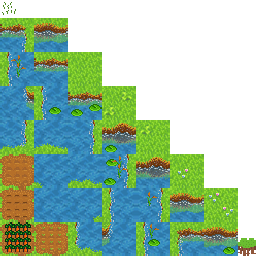
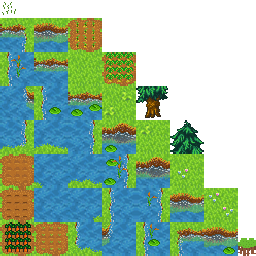
Added beautiful 2 blocks trees. Transparency problem due to turns

Changed region(s): [[0.25, 0.0625, 0.6562, 0.4688], [0.6562, 0.4688, 0.8125, 0.625]]

diff --git a/core/src/com/pi4/mgmtgame/screens/MainGameScreen.java b/core/src/com/pi4/mgmtgame/screens/MainGameScreen.java
@@ -26,6 +26,9 @@ import com.badlogic.gdx.scenes.scene2d.ui.Image;
 import com.badlogic.gdx.math.Vector3;
 import com.pi4.mgmtgame.Popup;
 import com.pi4.mgmtgame.ManagementGame;
+import com.pi4.mgmtgame.blocks.Structure;
+import com.pi4.mgmtgame.blocks.TreeField;
+import com.badlogic.gdx.scenes.scene2d.ui.Skin;
 
 public class MainGameScreen implements Screen	{
 
@@ -43,7 +46,7 @@ public class MainGameScreen implements Screen	{
 	private SpriteBatch batch;
 	private HUD hud;
 	private InputMultiplexer multiplexer;
-	protected Stage stage, stage2;
+	protected Stage stage, selectionSquareStage, decorationStage;
 	private ServerInteraction server;
 	private Button waitingOverlay;
 	private Image selectSquare;
@@ -89,7 +92,8 @@ public class MainGameScreen implements Screen	{
 		camera.update();
 
 		stage = new Stage(viewport, batch);
-		stage2 = new Stage(viewport, batch);
+		selectionSquareStage = new Stage(viewport, batch);
+		decorationStage = new Stage(viewport, batch);
 
 		hud = new HUD(manager, server);
 		server.passHUD(hud);
@@ -103,13 +107,14 @@ public class MainGameScreen implements Screen	{
 		Gdx.input.setInputProcessor(multiplexer);
 		stage.addActor(map);
 		map.updateActors(manager, server);
+		updateDecorations();
 
 		this.selectSquare = new Image(manager.get("select.png", Texture.class));
 		this.selectedSquare = new Image(manager.get("select.png", Texture.class));
 		this.selectedSquare.setColor(0f, 1f, 1f, 1f);
 		this.selectedSquare.setVisible(false);
-		stage2.addActor(selectSquare);
-		stage2.addActor(selectedSquare);
+		selectionSquareStage.addActor(selectSquare);
+		selectionSquareStage.addActor(selectedSquare);
 
 		waitingOverlay = new Button(new TextureRegionDrawable(manager.get("b l a c k.png", Texture.class)));
 		waitingOverlay.setVisible(false);
@@ -164,8 +169,11 @@ public class MainGameScreen implements Screen	{
 			this.selectedSquare.setY(this.selectedSquareY);
 		}
 
-		stage2.act(delta);
-		stage2.draw();
+		selectionSquareStage.act(delta);
+		selectionSquareStage.draw();
+
+		decorationStage.act(delta);
+		decorationStage.draw();
 
 		processCameraMovement();
 
@@ -197,6 +205,21 @@ public class MainGameScreen implements Screen	{
 			translateY += cameraSpeed;
 		}
 		camera.translate(translateX, translateY);
+	}
+
+	private void updateDecorations() {
+		decorationStage.clear();
+		for(int x=0; x<map.getMapWidth(); x++) {
+			for(int y=0; y<map.getMapHeight(); y++) {
+				Structure struct = map.getStructAt(x, y);
+				if (struct != null && struct instanceof TreeField && ((TreeField)struct).hasSeedGrown()) {
+					Image treeTop = new Image(manager.get("blocks/arbre_haut.png", Texture.class));
+					treeTop.setX(x*ManagementGame.TILE_SIZE);
+					treeTop.setY((y+1)*ManagementGame.TILE_SIZE);
+					decorationStage.addActor(treeTop);
+				}
+			}
+		}
 	}
 
 	@Override
@@ -232,6 +255,7 @@ public class MainGameScreen implements Screen	{
 					stage.addActor(serverMap);
 					map.remove();
 					map = serverMap;
+					updateDecorations();
 					hud.update();
 					server.getInternalTurn();
 				}

diff --git a/core/src/com/pi4/mgmtgame/blocks/Field.java b/core/src/com/pi4/mgmtgame/blocks/Field.java
@@ -49,7 +49,7 @@ public class Field extends Structure {
 					Button buttonHarvest = new Button(manager.get("popupIcons/popup.json", Skin.class), "harvest_icon");
 					Button buttonDestroy = new Button(manager.get("popupIcons/popup.json", Skin.class), "bomb_icon");
 					Button buttonRepulsive = new Button(manager.get("popupIcons/popup.json", Skin.class), "closeButton");
-						
+
 					final Popup p = new Popup((getGridX() - 2) * ManagementGame.TILE_SIZE + ManagementGame.TILE_SIZE/2, (getGridY() + 1) * ManagementGame.TILE_SIZE, manager, buttonPlant,
 							buttonHarvest, buttonDestroy, buttonRepulsive);
 					if (!hasSeed()) {
@@ -170,7 +170,7 @@ public class Field extends Structure {
 		if (plantedSeed == null) {
 			changeStyle("field_empty");
 		} else if (growRatio >= 0.5 && growRatio < 1) {
-			changeStyle("field_grow");
+			changeStyle(plantedSeed.getFieldMiddleSpriteName());
 		} else if (!hasSeedGrown()) {
 			changeStyle("field_planted");
 		} else {
@@ -255,7 +255,7 @@ public class Field extends Structure {
 		if(this.turnsSinceCrickets<=3) {
 			cricketSpread();
 		}
-			
+
 	}
 
 	private void cricketSpread() {
@@ -293,13 +293,13 @@ public class Field extends Structure {
 			this.growingState--;
 
 	}
-	
+
 	private void removeCrickets(){
 		this.usedItem=null;
 		this.turnsSinceCrickets=0;
 		//mettre qqc pour virer le sprite
 	}
-	
+
 	private ArrayList<Structure> getAdjacentStruct() {
 		ArrayList<Structure> structs = new ArrayList<Structure>();
 		for(int i=-1;i<2;i++) {

diff --git a/core/src/com/pi4/mgmtgame/blocks/Environment.java b/core/src/com/pi4/mgmtgame/blocks/Environment.java
@@ -38,7 +38,7 @@ public abstract class Environment extends Block {
             public void clicked(InputEvent event, float x, float y) {
             	System.out.println("Clicked block at ("+getGridX()+", "+getGridY()+")");
 
-                if(getOwnerID() == -1) {
+                // if(getOwnerID() == -1) {
                     // Button buttonBuyTerrain = new Button(manager.get("popupIcons/popup.json", Skin.class), "dollar_icon");
                     // Popup p = new Popup((getGridX() - 2) * ManagementGame.TILE_SIZE + ManagementGame.TILE_SIZE/2, (getGridY() + 1) * ManagementGame.TILE_SIZE, manager, buttonBuyTerrain);
                     // if (server.canBuyTerrain(getGridX(), getGridY())) {
@@ -53,7 +53,7 @@ public abstract class Environment extends Block {
                     // } else {
                     //     buttonBuyTerrain.getColor().a = 0.3f;
                     // }
-                } else {
+                // } else {
 
                     Button buttonField = new Button(manager.get("popupIcons/popup.json", Skin.class), "hoe_icon");
                     Button buttonTree = new Button(manager.get("popupIcons/popup.json", Skin.class), "tree_icon");
@@ -111,7 +111,7 @@ public abstract class Environment extends Block {
                     }
 
                     getStage().addActor(p);
-                }
+                // }
             }
         });
         setButton(button);

diff --git a/core/src/com/pi4/mgmtgame/ManagementGame.java b/core/src/com/pi4/mgmtgame/ManagementGame.java
@@ -37,6 +37,7 @@ public class ManagementGame extends Game {
 		manager.load("marketRes/marketButtons.json", Skin.class, new SkinLoader.SkinParameter("marketRes/marketButtons.atlas"));
 		manager.load("b l a c k.png", Texture.class);
 		manager.load("select.png", Texture.class);
+		manager.load("blocks/arbre_haut.png", Texture.class);
 		manager.finishLoading();
 
 		this.setScreen(new MainMenuScreen(this, manager));

diff --git a/core/src/com/pi4/mgmtgame/resources/Grain.java b/core/src/com/pi4/mgmtgame/resources/Grain.java
@@ -10,5 +10,6 @@ public abstract class Grain extends Resources implements Serializable {
 	public abstract Plant getGrownPlant();
 	public abstract int getId();
 	public abstract String getFieldSpriteName();
+	public abstract String getFieldMiddleSpriteName();
 	public abstract String getTexture();
 }

diff --git a/core/src/com/pi4/mgmtgame/resources/PotatoSeeds.java b/core/src/com/pi4/mgmtgame/resources/PotatoSeeds.java
@@ -30,7 +30,11 @@ public class PotatoSeeds extends Grain {
 	}
 
 	public String getFieldSpriteName() {
-		return "field_carrots";
+		return "field_potato_grew";
+	}
+
+	public String getFieldMiddleSpriteName() {
+		return "field_potato_middle";
 	}
 
 	public String toString() {

diff --git a/core/src/com/pi4/mgmtgame/resources/CarrotSeeds.java b/core/src/com/pi4/mgmtgame/resources/CarrotSeeds.java
@@ -33,6 +33,11 @@ public class CarrotSeeds extends Grain {
 		return "field_carrots";
 	}
 
+
+	public String getFieldMiddleSpriteName() {
+		return "field_grow";
+	}
+
 	public String toString() {
 		return ("Carrot Seeds");
 	}

diff --git a/core/src/com/pi4/mgmtgame/resources/WheatSeeds.java b/core/src/com/pi4/mgmtgame/resources/WheatSeeds.java
@@ -38,6 +38,10 @@ public class WheatSeeds extends Grain {
 		return "field_carrots";
 	}
 
+	public String getFieldMiddleSpriteName() {
+		return "field_grew";
+	}
+
 	public String toString() {
 		return ("Wheat Seeds");
 	}

diff --git a/core/src/com/pi4/mgmtgame/resources/TreeSeeds.java b/core/src/com/pi4/mgmtgame/resources/TreeSeeds.java
@@ -30,6 +30,10 @@ public class TreeSeeds extends Grain {
 		return "treefarm_grew";
 	}
 
+	public String getFieldMiddleSpriteName() {
+		return null;
+	}
+
 	public String getTexture() {
 		return("marketRes/wood.png");
 	}

diff --git a/core/src/com/pi4/mgmtgame/blocks/TreeField.java b/core/src/com/pi4/mgmtgame/blocks/TreeField.java
@@ -141,6 +141,10 @@ public class TreeField extends Field{
 		return null;
 	}
 
+	@Override
+	public String toString() {
+		return "TreeField";
+	}
 
 
 }
